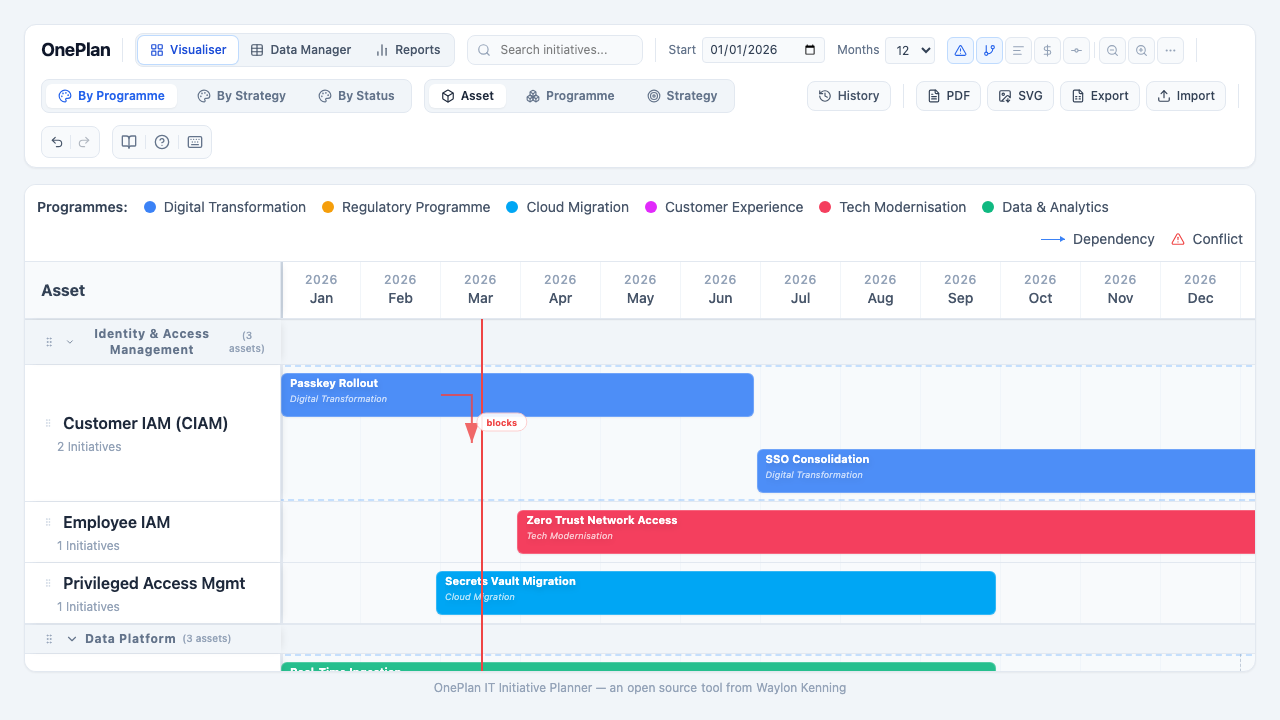
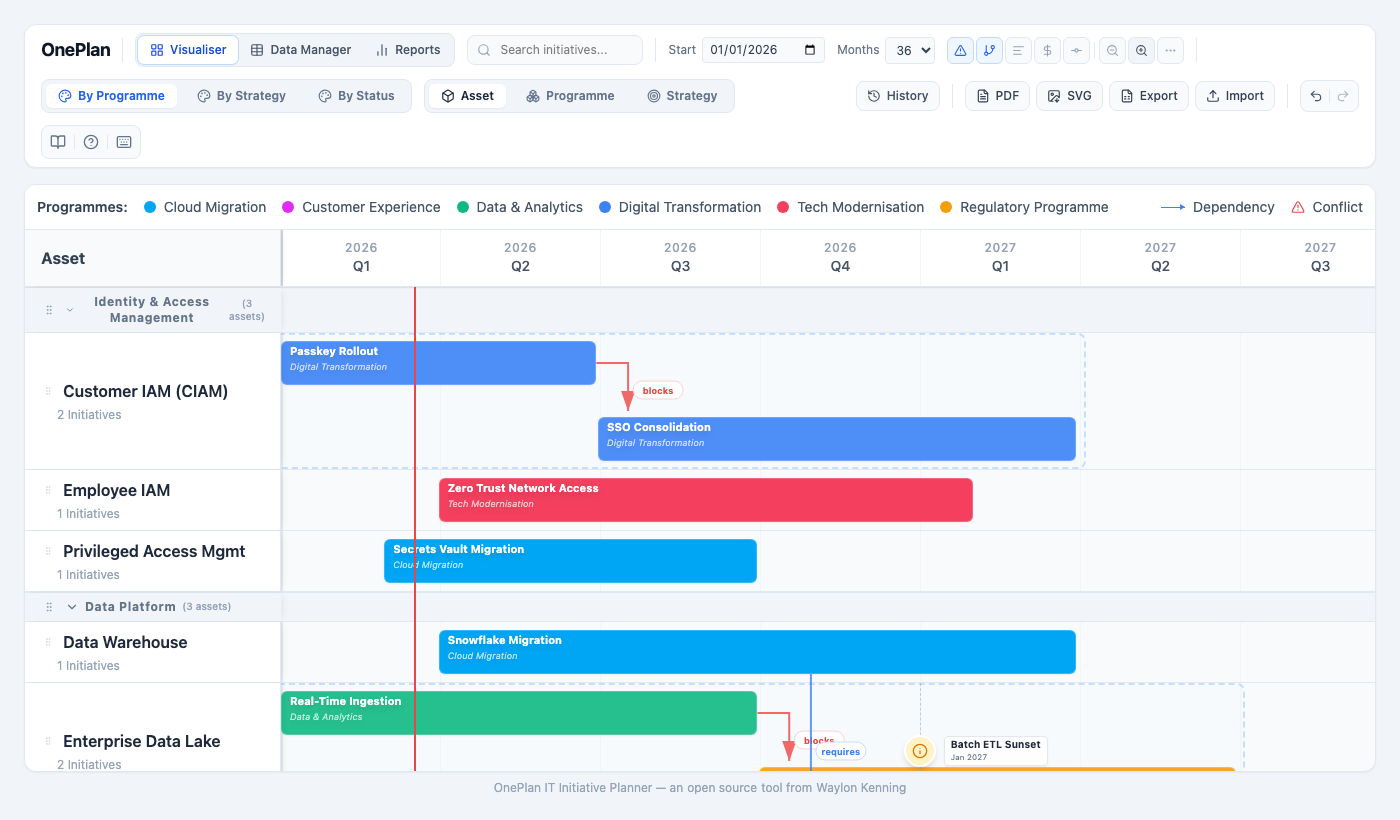
feat: replace all screenshots with accurate Playwright-captured versions
Added e2e/capture-screenshots.spec.ts to programmatically capture all
tutorial and feature PNGs from the live app using demo data. Screenshots
now accurately reflect the current feature set: zoomed timeline view,
initiative edit panel, Reports budget summary, Data Manager table,
dependency arrows, conflict detection, grouped rows, search, and
column resize.

diff --git a/e2e/capture-screenshots.spec.ts b/e2e/capture-screenshots.spec.ts
@@ -1,0 +1,228 @@
+/**
+ * Screenshot capture script — overwrites all tutorial and feature PNGs.
+ * Run with: npx playwright test e2e/capture-screenshots.spec.ts --headed
+ */
+import { test, expect } from '@playwright/test';
+import path from 'path';
+
+const OUT = path.resolve('public');
+
+async function loadAppWithDemoData(page: import('@playwright/test').Page) {
+  // Skip landing page and tutorial, use demo data
+  await page.goto('/');
+  await page.evaluate(() => {
+    localStorage.setItem('oneplan-e2e', 'true');
+    localStorage.setItem('oneplan_has_seen_landing', 'true');
+  });
+  await page.reload();
+  // Wait for timeline to be ready
+  await page.waitForSelector('[data-testid="asset-row-content"]', { timeout: 20000 });
+}
+
+// ─── TUTORIAL SCREENSHOTS ────────────────────────────────────────────────────
+
+test('tutorial/1-overview — full timeline', async ({ page }) => {
+  await page.setViewportSize({ width: 1400, height: 820 });
+  await loadAppWithDemoData(page);
+  // Ensure Today indicator and some initiatives are visible
+  await page.waitForSelector('[data-testid="initiative-bar"]', { timeout: 10000 });
+  // Let SVG arrows settle
+  await page.waitForTimeout(500);
+  await page.screenshot({
+    path: `${OUT}/tutorial/1-overview.png`,
+    clip: { x: 0, y: 0, width: 1400, height: 820 },
+  });
+});
+
+test('tutorial/2-visualiser — timeline zoomed in', async ({ page }) => {
+  await page.setViewportSize({ width: 1400, height: 820 });
+  await loadAppWithDemoData(page);
+  await page.waitForSelector('[data-testid="initiative-bar"]', { timeout: 10000 });
+  // Zoom in to 12 months for a more detailed, intimate timeline view
+  await page.getByTestId('zoom-in').click();
+  await page.getByTestId('zoom-in').click();
+  await page.getByTestId('zoom-in').click();
+  await page.waitForTimeout(400);
+  await page.screenshot({
+    path: `${OUT}/tutorial/2-visualiser.png`,
+    clip: { x: 0, y: 0, width: 1400, height: 820 },
+  });
+});
+
+test('tutorial/3-interactive — initiative edit panel open', async ({ page }) => {
+  await page.setViewportSize({ width: 1400, height: 820 });
+  await loadAppWithDemoData(page);
+  await page.waitForSelector('[data-testid="initiative-bar"]', { timeout: 10000 });
+  // Click the first initiative to open edit panel
+  await page.locator('[data-testid="initiative-bar"]').first().click();
+  await page.waitForSelector('[data-testid="initiative-panel"]', { timeout: 5000 });
+  await page.waitForTimeout(300);
+  await page.screenshot({
+    path: `${OUT}/tutorial/3-interactive.png`,
+    clip: { x: 0, y: 0, width: 1400, height: 820 },
+  });
+});
+
+test('tutorial/5-data-manager — data manager view', async ({ page }) => {
+  await page.setViewportSize({ width: 1400, height: 820 });
+  await loadAppWithDemoData(page);
+  await page.getByTestId('nav-data-manager').click();
+  // Wait for data table
+  await page.waitForSelector('table tbody tr[data-real="true"]', { timeout: 10000 });
+  await page.waitForTimeout(300);
+  await page.screenshot({
+    path: `${OUT}/tutorial/5-data-manager.png`,
+    clip: { x: 0, y: 0, width: 1400, height: 820 },
+  });
+});
+
+test('tutorial/4-insights — reports view', async ({ page }) => {
+  await page.setViewportSize({ width: 1400, height: 820 });
+  await loadAppWithDemoData(page);
+  await page.getByTestId('nav-reports').click();
+  await page.waitForTimeout(600);
+  await page.screenshot({
+    path: `${OUT}/tutorial/4-insights.png`,
+    clip: { x: 0, y: 0, width: 1400, height: 820 },
+  });
+});
+
+// ─── FEATURE SCREENSHOTS ─────────────────────────────────────────────────────
+
+test('features/dependency — dependency arrows on timeline', async ({ page }) => {
+  await page.setViewportSize({ width: 1200, height: 700 });
+  await loadAppWithDemoData(page);
+  await page.waitForSelector('[data-testid="initiative-bar"]', { timeout: 10000 });
+  await page.waitForTimeout(600);
+  await page.screenshot({
+    path: `${OUT}/features/dependency.png`,
+    clip: { x: 0, y: 0, width: 1200, height: 700 },
+  });
+});
+
+test('features/conflict — overlapping initiatives flagged', async ({ page }) => {
+  await page.setViewportSize({ width: 1200, height: 700 });
+  await loadAppWithDemoData(page);
+  await page.waitForSelector('[data-testid="initiative-bar"]', { timeout: 10000 });
+  // Scroll the timeline scroll container to reveal Core Ledger / Payments Engine rows
+  await page.evaluate(() => {
+    // The timeline uses a flex-1 overflow-auto container
+    const container = document.querySelector('.flex-1.overflow-auto');
+    if (container) container.scrollTop = 800;
+  });
+  await page.waitForTimeout(500);
+  await page.screenshot({
+    path: `${OUT}/features/conflict.png`,
+    clip: { x: 0, y: 0, width: 1200, height: 700 },
+  });
+});
+
+test('features/grouped — collapsed asset row', async ({ page }) => {
+  await page.setViewportSize({ width: 1200, height: 700 });
+  await loadAppWithDemoData(page);
+  await page.waitForSelector('[data-testid="asset-row-content"]', { timeout: 10000 });
+  // Collapse the first asset row by clicking the collapse button
+  const collapseBtn = page.locator('[data-testid="collapse-group-btn"]').first();
+  if (await collapseBtn.isVisible()) {
+    await collapseBtn.click();
+    await page.waitForTimeout(400);
+  }
+  await page.screenshot({
+    path: `${OUT}/features/grouped.png`,
+    clip: { x: 0, y: 0, width: 1200, height: 700 },
+  });
+});
+
+test('features/inline-editing — data manager table', async ({ page }) => {
+  await page.setViewportSize({ width: 1200, height: 700 });
+  await loadAppWithDemoData(page);
+  await page.getByTestId('nav-data-manager').click();
+  await page.waitForSelector('table tbody tr[data-real="true"]', { timeout: 10000 });
+  // Click into first cell to show editing
+  const firstInput = page.locator('table tbody tr[data-real="true"]').first().locator('input').first();
+  await firstInput.click();
+  await page.waitForTimeout(300);
+  await page.screenshot({
+    path: `${OUT}/features/inline-editing.png`,
+    clip: { x: 0, y: 0, width: 1200, height: 700 },
+  });
+});
+
+test('features/column-resize — data manager column resize handle', async ({ page }) => {
+  await page.setViewportSize({ width: 1200, height: 700 });
+  await loadAppWithDemoData(page);
+  await page.getByTestId('nav-data-manager').click();
+  await page.waitForSelector('table tbody tr[data-real="true"]', { timeout: 10000 });
+  // Hover over the border between first and second column headers to show resize cursor
+  const firstTh = page.locator('table thead th').first();
+  const box = await firstTh.boundingBox();
+  if (box) {
+    // Hover right at the right edge of the first header (resize handle zone)
+    await page.mouse.move(box.x + box.width - 2, box.y + box.height / 2);
+  }
+  await page.waitForTimeout(300);
+  await page.screenshot({
+    path: `${OUT}/features/column-resize.png`,
+    clip: { x: 0, y: 0, width: 1200, height: 700 },
+  });
+});
+
+test('features/global-search — search bar with results', async ({ page }) => {
+  await page.setViewportSize({ width: 1200, height: 700 });
+  await loadAppWithDemoData(page);
+  await page.waitForSelector('[data-testid="initiative-bar"]', { timeout: 10000 });
+  // Open search if there's a search input/button
+  const searchInput = page.locator('input[placeholder*="Search"], input[type="search"]').first();
+  if (await searchInput.isVisible()) {
+    await searchInput.click();
+    await searchInput.fill('Cloud');
+    await page.waitForTimeout(400);
+  } else {
+    // Try clicking a search button
+    const searchBtn = page.locator('[data-testid="search-btn"], [aria-label*="Search"]').first();
+    if (await searchBtn.isVisible()) {
+      await searchBtn.click();
+      await page.waitForTimeout(200);
+      const input = page.locator('input[placeholder*="Search"], input[type="search"]').first();
+      await input.fill('Cloud');
+      await page.waitForTimeout(400);
+    }
+  }
+  await page.screenshot({
+    path: `${OUT}/features/global-search.png`,
+    clip: { x: 0, y: 0, width: 1200, height: 700 },
+  });
+});
+
+test('features/move-resize — initiative bar selected/focused', async ({ page }) => {
+  await page.setViewportSize({ width: 1200, height: 700 });
+  await loadAppWithDemoData(page);
+  await page.waitForSelector('[data-testid="initiative-bar"]', { timeout: 10000 });
+  // Hover over an initiative bar to show resize handles
+  const bar = page.locator('[data-testid="initiative-bar"]').first();
+  await bar.hover();
+  await page.waitForTimeout(300);
+  await page.screenshot({
+    path: `${OUT}/features/move-resize.png`,
+    clip: { x: 0, y: 0, width: 1200, height: 700 },
+  });
+});
+
+test('features/view-switching — header navigation tabs', async ({ page }) => {
+  await page.setViewportSize({ width: 1200, height: 700 });
+  await loadAppWithDemoData(page);
+  await page.waitForSelector('[data-testid="initiative-bar"]', { timeout: 10000 });
+  // Capture just the header area showing nav tabs
+  const header = await page.locator('header, [data-testid="app-header"]').first().boundingBox();
+  if (header) {
+    await page.screenshot({
+      path: `${OUT}/features/view-switching.png`,
+      clip: { x: 0, y: 0, width: 1200, height: Math.max(header.height + 20, 120) },
+    });
+  } else {
+    await page.screenshot({
+      path: `${OUT}/features/view-switching.png`,
+      clip: { x: 0, y: 0, width: 1200, height: 100 },
+    });
+  }
+});
